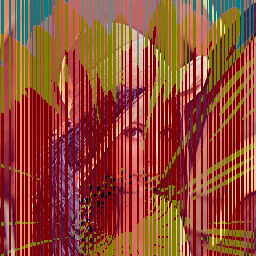
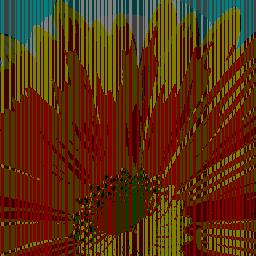
fridrich

diff --git a/LSB.py b/LSB.py
@@ -21,9 +21,11 @@ def encode_lsb(original_image_path, secret_image_path, password):
 
             secret_pixel = list(secret_image.getpixel((x, y)))
 
-            for i in range(3):  
+            for i in range(3):  # Pour chaque composant RVB
                 if key[x % len(key)] == '1':
                     original_pixel[i] = (original_pixel[i] & 0xFE) | ((secret_pixel[i] >> 7) & 0x01)
+                else:
+                    original_pixel[i] = (original_pixel[i] & 0xFE) | ((secret_pixel[i] >> 6) & 0x01)
 
             encoded_image.putpixel((x, y), tuple(original_pixel))
 
@@ -40,17 +42,19 @@ def decode_lsb(encoded_image_path, password):
         for y in range(encoded_image.height):
             encoded_pixel = list(encoded_image.getpixel((x, y)))
 
-
-            for i in range(3):  # Pour chaque composant RVB
-                if key[x % len(key)] == '1':
-                    encoded_pixel[i] = (encoded_pixel[i] & 0x01) << 7
-
             # r = (r & 1) << 7 
             # g = (g & 1) << 7
             # b = (b & 1) << 7
 
-            decoded_image.putpixel((x, y), tuple(encoded_pixel))
+            for i in range(3):  # Pour chaque composant RVB
+                if key[x % len(key)] == '1':
+                    encoded_pixel[i] = (encoded_pixel[i] & 0x01) << 7
+                else:
+                    encoded_pixel[i] = (encoded_pixel[i] & 0x01) << 6
 
+            decoded_image.putpixel((x, y), tuple(encoded_pixel))
+            
+           
     decoded_image.save('decoded_image.png')
 
 def encode_lsb2(original_image_path, secret_image_path, password):

diff --git a/fridrich.py b/fridrich.py
@@ -1,0 +1,45 @@
+from PIL import Image
+import numpy as np
+
+img = Image.open('/home/yassg4mer/Project/SAFM/bikes.bmp')
+
+img_gray_scale = img.convert('L')
+
+img_matrix = np.array(img_gray_scale)
+
+rows, cols = img_matrix.shape
+
+block_size = 4
+abs_total = []
+
+def absolute(block):
+    abs = 0
+    for n in range(0, len(block) - 1):
+        abs += np.abs(block[n + 1] - block[n])
+    return abs
+
+def f1(x): 
+    if x % 2 == 0:
+        x += 1
+    else: 
+        x -= 1
+
+    return x
+    
+def f0(x): 
+    return x
+
+for i in range(0, rows, block_size):
+    for j in range(0, cols):
+        block = img_matrix[i:i + block_size, j]
+        
+        abs = absolute(block)
+        
+        abs_f1 = f1(abs)
+        
+        abs_f0 = f0(abs)
+
+
+        abs_total.append(abs)
+        
+
